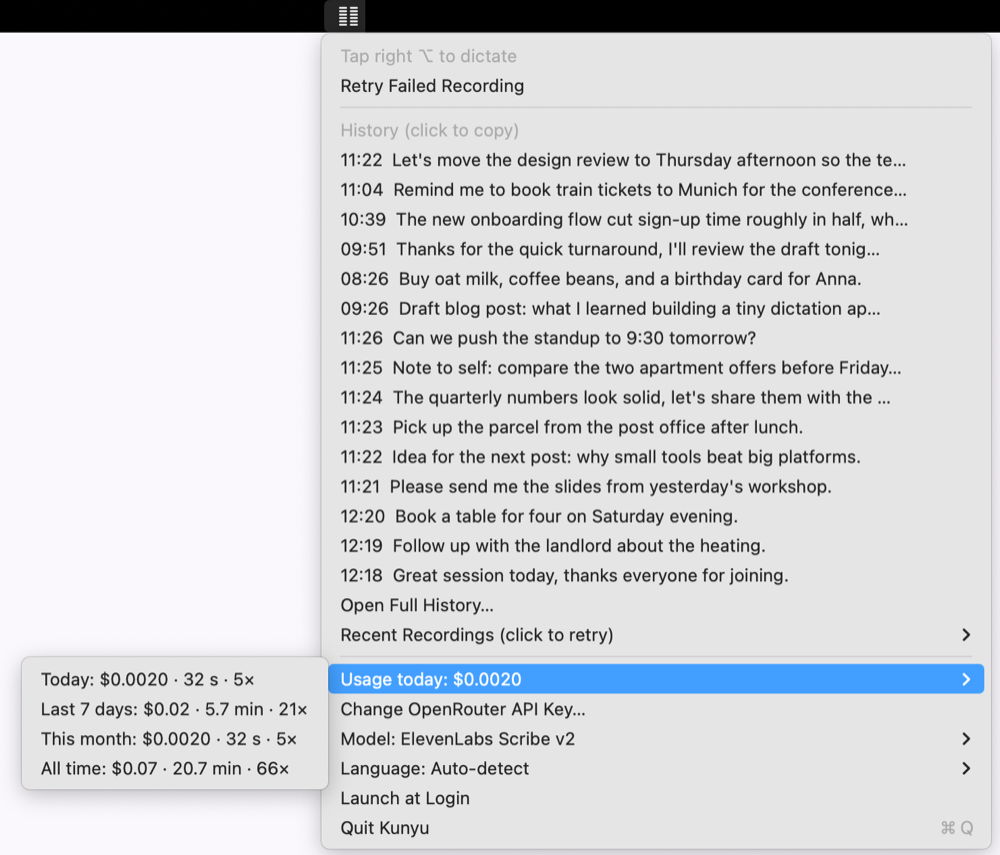
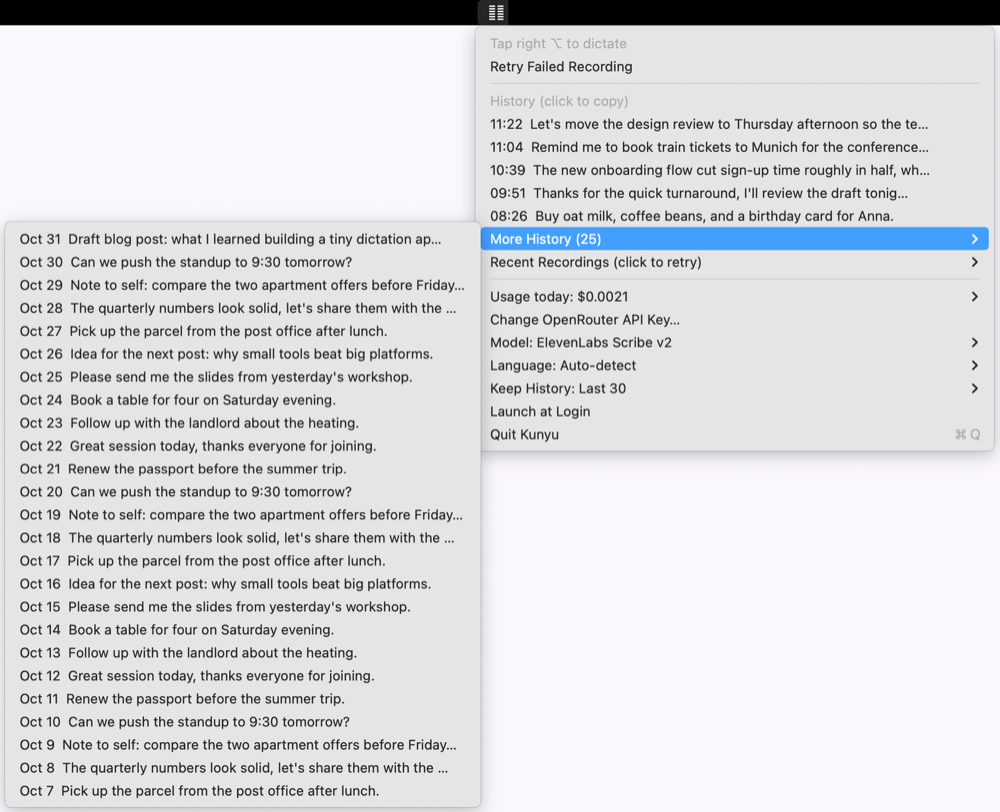
History: show latest 5 plus a More History submenu; keep 30 by default
Retention is configurable from the menu (10/30/100/1000/everything).
Usage totals move to a per-day usage.json so trimming transcripts never
loses cost figures; it is seeded from the existing history on first run.

Changed region(s): [[0.0, 0.0, 1.0, 1.0], [0.961, 0.5234, 0.992, 0.5542]]

diff --git a/Sources/main.swift b/Sources/main.swift
@@ -170,10 +170,13 @@ struct Entry: Codable {
     var cost: Double?
 }
 
-/// Every successful transcription, newest first. Usage totals are computed from it,
-/// so history is capped generously (a year of heavy use is a few MB).
+/// How many transcripts to keep (`defaults write me.diskun.kunyu historyLimit N`, 0 = unlimited).
+var historyLimit: Int {
+    UserDefaults.standard.object(forKey: "historyLimit") == nil ? 30 : UserDefaults.standard.integer(forKey: "historyLimit")
+}
+
+/// Recent transcripts, newest first, trimmed to `historyLimit`.
 final class History {
-    static let maxEntries = 20_000
     let file = dataDir.appendingPathComponent("history.json")
     private(set) var entries: [Entry] = []
 
@@ -181,14 +184,54 @@ final class History {
 
     func add(_ e: Entry) {
         entries.insert(e, at: 0)
-        if entries.count > Self.maxEntries { entries.removeLast(entries.count - Self.maxEntries) }
-        saveJSON(entries, file)
+        trim()
     }
 
-    /// (cost, seconds, count) for entries on or after `since`.
-    func usage(since: Date = .distantPast) -> (cost: Double, seconds: Double, count: Int) {
-        entries.filter { $0.date >= since }.reduce((0, 0, 0)) {
-            ($0.0 + ($1.cost ?? 0), $0.1 + ($1.seconds ?? 0), $0.2 + 1)
+    func trim() {
+        let limit = historyLimit
+        if limit > 0, entries.count > limit { entries.removeLast(entries.count - limit) }
+        saveJSON(entries, file)
+    }
+}
+
+/// Usage per day ("yyyy-MM-dd" → totals), kept apart from the history so that
+/// trimming transcripts never loses cost figures. Holds no text.
+final class Usage {
+    struct Day: Codable { var cost = 0.0; var seconds = 0.0; var count = 0 }
+    let file = dataDir.appendingPathComponent("usage.json")
+    private(set) var days: [String: Day] = [:]
+    static let fmt: DateFormatter = {
+        let f = DateFormatter()
+        f.locale = Locale(identifier: "en_US_POSIX")
+        f.dateFormat = "yyyy-MM-dd"
+        return f
+    }()
+
+    init(seedFrom history: [Entry]) {
+        if let saved = loadJSON([String: Day].self, file) {
+            days = saved
+        } else {
+            // First run with a usage file: start from whatever the history still holds.
+            for e in history { record(date: e.date, cost: e.cost, seconds: e.seconds, save: false) }
+            saveJSON(days, file)
+        }
+    }
+
+    func record(date: Date = Date(), cost: Double?, seconds: Double?, save: Bool = true) {
+        let key = Self.fmt.string(from: date)
+        var d = days[key] ?? Day()
+        d.cost += cost ?? 0
+        d.seconds += seconds ?? 0
+        d.count += 1
+        days[key] = d
+        if save { saveJSON(days, file) }
+    }
+
+    /// Totals for days on or after the day containing `since`.
+    func total(since: Date = .distantPast) -> Day {
+        let from = since == .distantPast ? "" : Self.fmt.string(from: since)
+        return days.filter { $0.key >= from }.values.reduce(into: Day()) {
+            $0.cost += $1.cost; $0.seconds += $1.seconds; $0.count += $1.count
         }
     }
 }
@@ -264,6 +307,8 @@ enum State { case idle, recording, transcribing }
 final class AppDelegate: NSObject, NSApplicationDelegate, NSMenuDelegate {
     let statusItem = NSStatusBar.system.statusItem(withLength: NSStatusItem.variableLength)
     let history = History()
+    // Seeded from the untrimmed history file at launch, before any trim can drop entries.
+    let usage = Usage(seedFrom: History().entries)
     let recordings = Recordings()
     var recorder: AVAudioRecorder?
     var state = State.idle { didSet { updateIcon() } }
@@ -511,6 +556,7 @@ final class AppDelegate: NSObject, NSApplicationDelegate, NSMenuDelegate {
         recordings.setError(rec.file, nil)
         guard !t.text.isEmpty else { NSSound.beep(); return }
         history.add(Entry(date: Date(), text: t.text, model: model, seconds: t.seconds ?? rec.duration, cost: t.cost))
+        usage.record(cost: t.cost, seconds: t.seconds ?? rec.duration)
         copy(t.text)
         // Small delay so the just-released Option key can't leak into the paste.
         DispatchQueue.main.asyncAfter(deadline: .now() + 0.05) { self.pasteIntoFrontApp() }
@@ -598,17 +644,16 @@ final class AppDelegate: NSObject, NSApplicationDelegate, NSMenuDelegate {
         let header = menu.addItem(withTitle: history.entries.isEmpty ? "No history yet" : "History (click to copy)",
                                   action: nil, keyEquivalent: "")
         header.isEnabled = false
-        let fmt = DateFormatter()
-        fmt.dateFormat = "HH:mm"
-        for (i, entry) in history.entries.prefix(15).enumerated() {
-            let oneLine = entry.text.replacingOccurrences(of: "\n", with: " ")
-            let title = "\(fmt.string(from: entry.date))  " + (oneLine.count > 60 ? oneLine.prefix(60) + "…" : oneLine)
-            let it = item(title, #selector(copyHistory(_:)))
-            it.tag = i
-            it.toolTip = entry.text
-            menu.addItem(it)
+        // Latest 5 inline; the rest (up to the retention limit) in a submenu.
+        let entries = history.entries
+        for i in entries.indices.prefix(5) { menu.addItem(historyItem(i)) }
+        if entries.count > 5 {
+            let sub = NSMenu()
+            for i in entries.indices.dropFirst(5) { sub.addItem(historyItem(i)) }
+            let parent = NSMenuItem(title: "More History (\(entries.count - 5))", action: nil, keyEquivalent: "")
+            parent.submenu = sub
+            menu.addItem(parent)
         }
-        if !history.entries.isEmpty { menu.addItem(item("Open Full History…", #selector(openHistory))) }
 
         if !recordings.items.isEmpty {
             let sub = NSMenu()
@@ -630,6 +675,8 @@ final class AppDelegate: NSObject, NSApplicationDelegate, NSMenuDelegate {
         if hasKey { menu.addItem(item("Change OpenRouter API Key…", #selector(setAPIKey))) }
         menu.addItem(choiceMenu("Model", Self.models, current: model, action: #selector(pickModel(_:))))
         menu.addItem(choiceMenu("Language", Self.languages, current: language ?? "", action: #selector(pickLanguage(_:))))
+        menu.addItem(choiceMenu("Keep History", Self.historyLimits, current: String(historyLimit),
+                                action: #selector(pickHistoryLimit(_:))))
         let login = item("Launch at Login", #selector(toggleLogin))
         login.state = SMAppService.mainApp.status == .enabled ? .on : .off
         menu.addItem(login)
@@ -641,18 +688,18 @@ final class AppDelegate: NSObject, NSApplicationDelegate, NSMenuDelegate {
         let now = Date()
         let rows: [(String, Date)] = [
             ("Today", cal.startOfDay(for: now)),
-            ("Last 7 days", cal.date(byAdding: .day, value: -7, to: now)!),
+            ("Last 7 days", cal.date(byAdding: .day, value: -6, to: now)!),
             ("This month", cal.dateInterval(of: .month, for: now)!.start),
             ("All time", .distantPast),
         ]
         let sub = NSMenu()
         sub.autoenablesItems = false  // informational rows: shown in full contrast, clicking does nothing
         for (label, since) in rows {
-            let u = history.usage(since: since)
+            let u = usage.total(since: since)
             sub.addItem(withTitle: "\(label): \(money(u.cost)) · \(minutes(u.seconds)) · \(u.count)×",
                         action: nil, keyEquivalent: "")
         }
-        let today = history.usage(since: cal.startOfDay(for: now))
+        let today = usage.total(since: now)
         let parent = NSMenuItem(title: "Usage today: \(money(today.cost))", action: nil, keyEquivalent: "")
         parent.submenu = sub
         return parent
@@ -717,7 +764,27 @@ final class AppDelegate: NSObject, NSApplicationDelegate, NSMenuDelegate {
         copy(history.entries[sender.tag].text)
     }
 
-    @objc func openHistory() { NSWorkspace.shared.open(history.file) }
+    func historyItem(_ i: Int) -> NSMenuItem {
+        let entry = history.entries[i]
+        let fmt = DateFormatter()
+        fmt.dateFormat = Calendar.current.isDateInToday(entry.date) ? "HH:mm" : "MMM d"
+        let oneLine = entry.text.replacingOccurrences(of: "\n", with: " ")
+        let title = "\(fmt.string(from: entry.date))  " + (oneLine.count > 60 ? oneLine.prefix(60) + "…" : oneLine)
+        let it = item(title, #selector(copyHistory(_:)))
+        it.tag = i
+        it.toolTip = entry.text
+        return it
+    }
+
+    static let historyLimits: [(id: String, label: String)] = [
+        ("10", "Last 10"), ("30", "Last 30"), ("100", "Last 100"), ("1000", "Last 1,000"), ("0", "Everything"),
+    ]
+
+    @objc func pickHistoryLimit(_ sender: NSMenuItem) {
+        guard let n = Int(sender.representedObject as? String ?? "") else { return }
+        UserDefaults.standard.set(n, forKey: "historyLimit")
+        history.trim()  // shrinking the limit deletes older transcripts right away
+    }
 
     @objc func retry(_ sender: NSMenuItem) {
         guard state == .idle, let file = sender.representedObject as? String,

diff --git a/README.md b/README.md
@@ -22,9 +22,9 @@ One Swift file, no dependencies. Named after 坤 (earth) from the Diskun design 
 - **Esc** while recording cancels.
 - Only a *clean* tap counts (right ⌥ released within 0.4 s with no other key in between), so ⌥-key characters don't trigger it.
 - Menu bar icon (the 坤 mark; red while recording, solid lines while transcribing):
-  - **History**: latest 15 in the menu, click to copy; full list via *Open Full History…*
+  - **History**: latest 5 in the menu, the rest under *More History*; click any to copy. Keeps the last 30 by default (*Keep History*: 10, 30, 100, 1,000 or everything).
   - **Recent Recordings**: the last 3 recordings are kept on disk; click one to transcribe it again (failed ones are marked).
-  - **Usage**: cost, audio minutes and count for today / last 7 days / this month / all time, from the cost OpenRouter reports per request.
+  - **Usage**: cost, audio minutes and count for today / last 7 days / this month / all time, from the cost OpenRouter reports per request. Totals are kept per day, so they survive history trimming.
   - **Model** and **Language** switchers, **Launch at Login**.
 
 ## Build from source
@@ -48,6 +48,7 @@ Pick **Model** and **Language** from the menu bar. Equivalent CLI (any model id 
 ```sh
 defaults write me.diskun.kunyu model openai/whisper-large-v3-turbo   # default: elevenlabs/scribe-v2
 defaults write me.diskun.kunyu language de                          # default: auto-detect
+defaults write me.diskun.kunyu historyLimit 100                     # default: 30, 0 = keep everything
 ```
 
 List transcription models: `curl -s 'https://openrouter.ai/api/v1/models?output_modalities=transcription' | jq -r '.data[].id'`
@@ -58,7 +59,8 @@ transcribe models are unavailable (HTTP 404 "ZDR violation"). The models in the 
 
 ## Files
 
-- `~/Library/Application Support/Kunyu/history.json`: every transcription with model, seconds and cost
+- `~/Library/Application Support/Kunyu/history.json`: recent transcripts with model, seconds and cost (trimmed to *Keep History*)
+- `~/Library/Application Support/Kunyu/usage.json`: per-day cost, seconds and count (no text)
 - `~/Library/Application Support/Kunyu/recordings/`: the last 3 recordings (`index.json` marks failures)
 - `docs/`: README images (menu screenshot taken with demo data via `KUNYU_DATA_DIR` and `KUNYU_DEMO_MENU=1`)
 - `Resources/AppIcon.icns`: generated by `tools/make_icon.swift` (`./build.sh --icon` to redraw)
